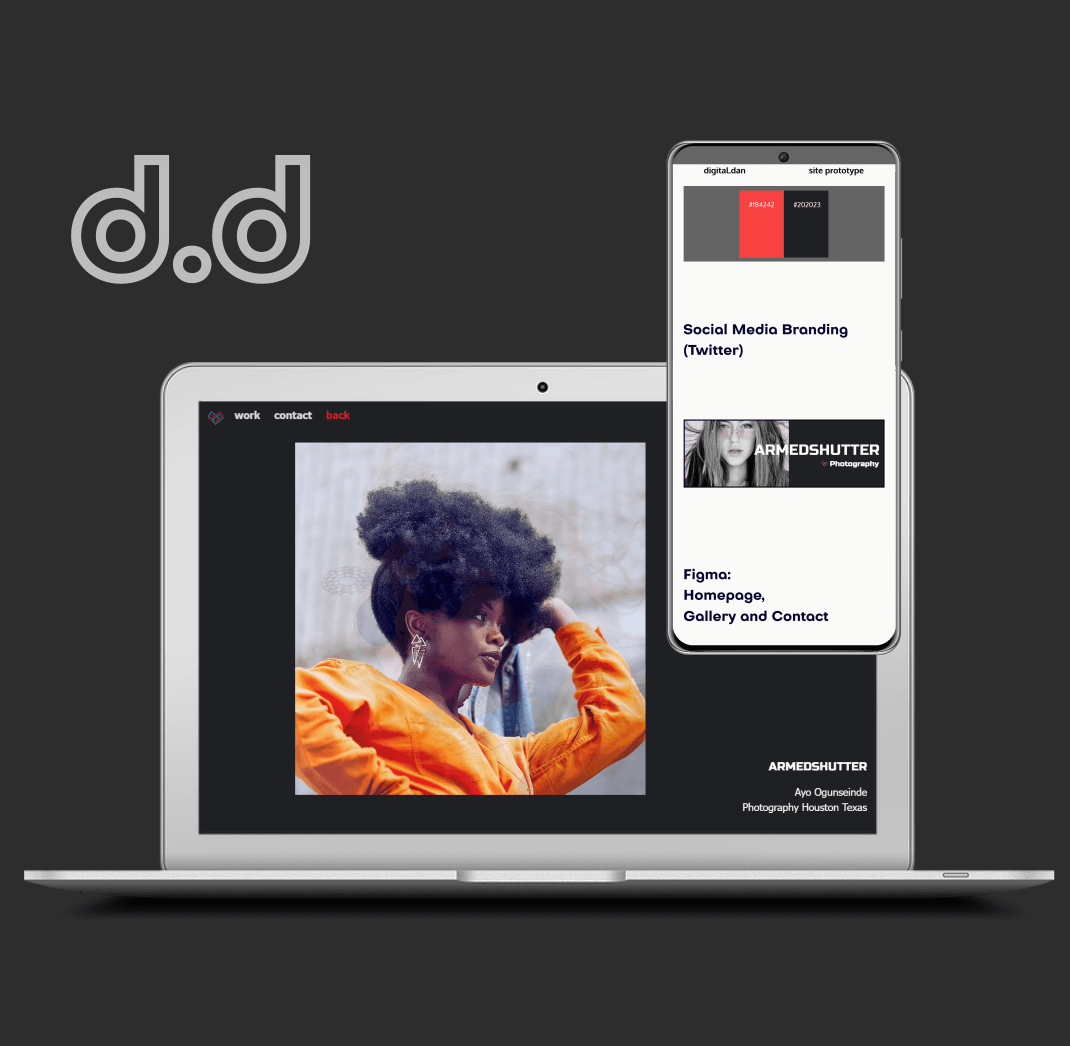
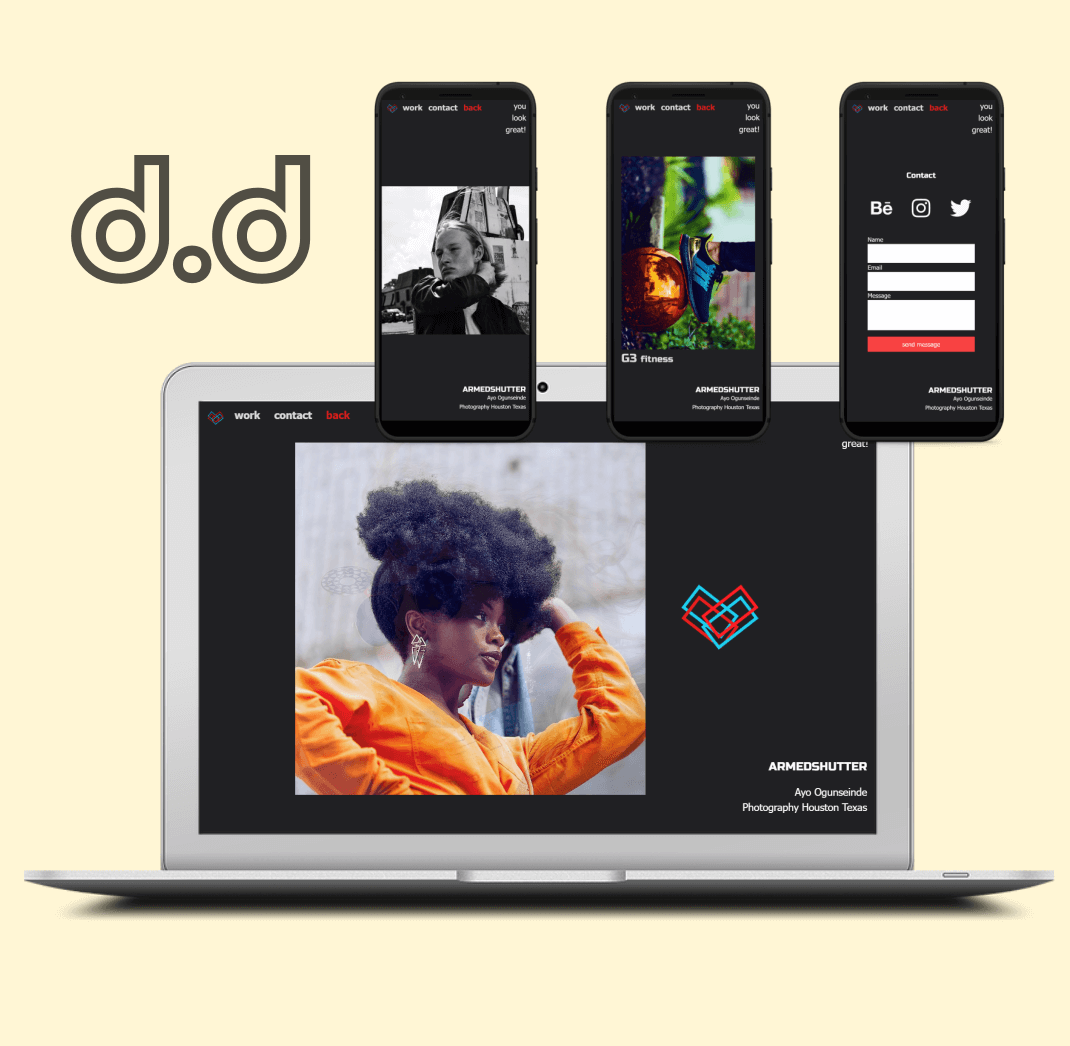
added AS case study

diff --git a/pages/Case3/AS.js b/pages/Case3/AS.js
@@ -1,0 +1,148 @@
+import Image from 'next/image'
+import Twitter from './Twitter2.png'
+import Mobile1 from './mobile1.png'
+import Mobile2 from './mobile2.png'
+import Mobile3 from './mobile3.png'
+import Wide1 from './wide1.png'
+import Wide2 from './wide2.png'
+import Wide4 from './wide4.png'
+import Back from '@components/Back'
+
+const AS = () => {
+
+    return (
+        <>
+            <main className="md:py-[15vh] flex flex-col md:p-[5rem]">
+
+                <section className="w-[75vw] flex flex-col justify-start  
+                p-4 my-[5vh] mt-[10vh]">
+                    <h1 className="aboutheader w-[95vw] font-bold p-2">
+                        Case Study:<br />
+                        Armed Shutter<br/> Photography/ Texas
+                    </h1 >
+
+
+
+                    <ul className="paragraph font-bold md:ml-[10vw]">
+
+                        <li>Art Direction</li>
+                        <li>Brand Design</li>
+                        <li>Digital Design</li>
+                        <li>Digital Development</li>
+                    </ul>
+
+
+                </section>
+
+                <section className="my-[5vh]"></section>
+                <div className="w-[75vw] flex justify-start ">
+                    <h1 className="font-[octarine] header p-4">
+                        Design Thoughts
+                    </h1>
+                </div>
+
+                <article className="md:ml-[10vw] md:w-[70ch] p-4">
+                    <p className="whitespace-normal paragraph font-[Oxygen] pt-[5vh]">
+                        <span className="font-bold">Brand design and a new portfolio page:<br /></span>
+                       Ayo Ogunseinde is an American people and fashion photographer with millions of downloads on unsplash.com. 
+                       His social media branding and website deseserved and got an update into the new decade.
+                    </p>
+                    <br />
+                    <br />
+                    <ul className="list-disc paragraph">
+                        <h1>Features & Updates:</h1>
+                        <li>New custom layout representing Ayo&apos;s minimalist and often experimental style.</li>
+                        <li>Brand slogan and name visible on all pages .</li>
+                        <li>More accessible contact options throughout the page.</li>
+
+                    </ul>
+
+                </article>
+                <section className="h-auto w-[95vw]">
+                    <h1 className="font-[octarine] header my-[5vh] md:my-[15vh] p-4">
+                        Typography
+                    </h1>
+                    <div className="h-auto flex justify-center items-start flex-col ml-[10vw]">
+                        <h1 className="fonts font-[Russo] font-light my-[2.5vh]">
+                            Russo One
+                        </h1>
+                        <h1 className="fonts font-[Ubuntu] font-light my-[2.5vh]">
+                            Ubuntu
+                        </h1>
+                    </div>
+                </section>
+
+                <section className="h-auto w-[95vw] my-[5vh] md:my-[15vh] p-4">
+                    <h1 className="font-[octarine] header">
+                        Brand Colors
+                    </h1>
+    
+                    <div
+                        className="md:w-[55vw] h-auto flex flex-row
+          paragraph md:ml-[10vw]"
+                    >
+                        <div className="h-[30vh] flex-auto bg-[#f84242] text-stone-900">
+                            #f84242
+                        </div>                
+                    </div>  
+                    <div
+                        className="md:w-[55vw] h-auto flex-row justify-center 
+          paragraph md:ml-[10vw]"
+                    >
+                        <div className="h-[30vh] flex-auto bg-[#202023] text-zinc-100">
+                            #202023
+                        </div>
+                       
+                    </div>
+                </section>
+              
+                <section className="h-auto w-[95vw] my-[5vh] md:my-[15vh] p-4">
+                    <h1 className="font-[octarine] header">
+                        Social Media
+                    </h1>
+                    <h2 className="paragraph py-[10vh] md:ml-[10vw]">Twitter profile header.</h2>
+                    <div className="md:w-[75%] flex justify-end my-[10vh] md:ml-[10vw]">
+                        <Image src={Twitter}
+                            alt="Image of AI generated images using circles and balls"
+                        /></div>
+           </section>
+
+
+                <section className="h-auto w-[95vw] my-[5vh] md:my-[10vh] p-2">
+                    <h1 className="font-[octarine] header">
+                        Website
+                    </h1>
+
+                    <div className="md:w-[65%] flex justify-end my-[15vh]">
+                        <Image src={Wide1}
+                            alt="Image of a LinkedIn profile header"
+                        /></div>
+                    <div className="md:w-[75%] flex justify-end my-[15vh] mx-auto">
+                        <Image src={Mobile1}
+                            alt="Image of a LinkedIn profile header"
+                        /></div>
+        
+                    <div className="md:w-[65%] flex justify-end my-[15vh] md:ml-[10vw]">
+                        <Image src={Wide2}
+                            alt="Image of a LinkedIn profile header"
+                        /></div>
+     <div className="md:w-[25%] flex justify-end my-[15vh] md:ml-[35vw]">
+                        <Image src={Mobile3}
+                            alt="Image of a LinkedIn profile header"
+                        /></div>
+     <div className="md:w-[25%] flex justify-end my-[15vh] md:ml-[15vw]">
+                        <Image src={Mobile2}
+                            alt="Image of a LinkedIn profile header"
+                        /></div>
+                                  <div className="md:w-[75%] flex justify-end my-[15vh] md:ml-[10vw]">
+                        <Image src={Wide4}
+                            alt="Image of a LinkedIn profile header"
+                        /></div>
+                </section>
+                <Back />
+            </main>
+        </>
+    );
+};
+
+export default AS;

diff --git a/pages/About.js b/pages/About.js
@@ -8,28 +8,21 @@ const About = () => {
         y: [5, 0],
         transition: { delay: 0.2, duration: 0.6 }
     }
-
     return (
         <>
             <main
                 id="About"
                 className="h-auto pt-[5rem] flex flex-col justify-center">
-                <motion.h1
-                    className="aboutheader font-bold ml-[5%]"
-                    initial={{ opacity: 0 }}
-                    whileInView={{ opacity: 1 }}
-                    transition={{ delay: 0.5, duration: 0.5 }}
-                >
-                    service
-                </motion.h1 >
+
 
                 <section className="paragraph flex justify-center items-center md:py-[2.5rem]">
                     <div className="aboutcontainer w-[95vw] lg:w-[70vw]">
 
                         <motion.div animate={paragraphAnimate}>
-                            <section className="h-auto pt-[10vh] pb-[15vh] lg:w-[65ch] text-[var(--stone) px-[4vw]
+                            <section className="h-auto pt-[10vh] md:pt-[5vh] pb-[15vh] lg:w-[65ch] text-[var(--stone) px-[4vw]
                          
                                                         ">
+                                <h1 className="header">About</h1><br />
                                 Daniel Hubschmann (Germany), freelancer, senior multidisciplinary designer and web developer.
 
                                 Helping out clients with my over two decades of experience. In my remote-only agency I work with professionals from around the world.
@@ -38,7 +31,7 @@ const About = () => {
 
                                 <ul className="header list-disc">
 
-                                    <li>Digital design of <br /> websites, apps, <br />advertising and UIs </li>
+                                    <li>Digital design of <br /> websites, apps, <br />ads and events </li>
                                     <li>Digital development</li>
                                     <li>Art direction</li>
                                     <li>Graphic design</li>

diff --git a/pages/Work.js b/pages/Work.js
@@ -52,8 +52,6 @@ const Work = () => {
                             >
                                 <h2 className="paragraph text-amber-900 dark:text-amber-400 cursor-pointer"> case study <BsArrowUpRight /></h2>
                             </Link>
-                            <br />
-                            <br />
                             <Link href="https://digitaldanrestaurant.netlify.app/"
                             >
                                 <a target={'_blank'}
@@ -139,18 +137,13 @@ const Work = () => {
                             <motion.p whileInView={paragraphAnimate} className="paragraph lg:w-[40ch] pt-3 pr-8 ">
                                 Some branding and a new portfolio site for one of the best photographers on unsplash.com.
                                 <br />
-                                <br />
-
-
-                                Art direction, brand, digital & graphic design, development with React.  </motion.p>
+                         
+ </motion.p>
                         </div><br />
-                        <Link href="https://asprototype.netlify.app/"
+                        <Link href="/Case3/AS"
                         >
-                            <a target={'_blank'}
-                                rel={'noreferrer noopener'}>
-                                <h2 className="paragraph text-amber-900 dark:text-amber-400 cursor-pointer"> case study (new tab) <BsArrowUpRight /> </h2></a>
+                            <a><h2 className="paragraph text-amber-900 dark:text-amber-400 cursor-pointer"> case study <BsArrowUpRight /> </h2></a>
                         </Link>
-
                     </div>
                 </section>
                 <section className="lg:w-[80vw] h-auto flex flex-col lg:flex-row justify-start gap-12 mx-auto mt-[15vh] mb-[15vh]">

diff --git a/styles/globals.css b/styles/globals.css
@@ -35,6 +35,13 @@
   font-weight: normal;
   font-style: normal;
 }
+@font-face {
+  font-family: 'Russo';
+  src: url('../Fonts/russo-one.woff2') format('woff2'),
+    url('../Fonts/russo-one.woff') format('woff');
+  font-weight: normal;
+  font-style: normal;
+}
 
 html,
 body {
